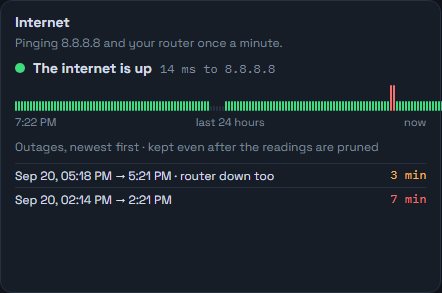
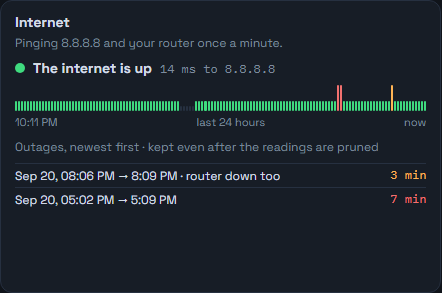
Keep the internet strip inside its card, and Activity to four across (#205)
The 24-hour strip drew a fixed 160 bars. Flex won't shrink them past the
2px each one is given plus the 1px gap beside it, so the strip always
needed 479px of card - and the card is usually nearer 340. The excess
didn't clip, it painted: the rest of the day ran out of the panel and
across whatever card sat to the right of it.

How many bars there are now comes from the card's own width, so it is
always exactly as wide as the space it has: 240 on an ultrawide, 109 on
a phone. The strip also clips now, so nothing can leave the panel again
whatever the arithmetic does. Resizing the window re-buckets it.

Activity stops at four cards across. auto-fit with a 340px floor kept
adding columns on a wide screen - seven at 2560, each one narrower than
what was inside it, which is what made the strip's overflow so obvious.
Giving every track a floor of a quarter of the row caps it at four,
while the 340px floor still steps down to three, two and one as the
window narrows.

docs/internet.png was showing the bug: the strip ran to the very edge
of the card because the overflow was cropped by the screenshot.

diff --git a/BAMF/wwwroot/index.html b/BAMF/wwwroot/index.html
@@ -1317,7 +1317,8 @@
   td.traf { font-family: "IBM Plex Mono", monospace; font-size: 11.5px; white-space: nowrap; color: var(--text-dim); }
   td.traf b { font-weight: 500; color: var(--text); }
   td.traf.quiet { color: var(--led-off); }
-  .act-cards { display: grid; grid-template-columns: repeat(auto-fit, minmax(340px, 1fr)); gap: 14px; margin: 0 0 18px; }
+  .act-cards { display: grid; gap: 14px; margin: 0 0 18px;
+    grid-template-columns: repeat(auto-fit, minmax(max(340px, (100% - 42px) / 4), 1fr)); }
   .act-card { background: var(--panel); border: 1px solid var(--line); border-radius: 12px; padding: 12px 14px; min-width: 0; }
   .act-card h3 { margin: 0 0 4px; font-size: 14px; }
   .act-card .sub { font-size: 12px; color: var(--text-dim); margin-bottom: 8px; }
@@ -1522,7 +1523,7 @@
   .wan-dot.down { background: var(--danger); }
   .wan-now { font: 600 14px "Space Grotesk", system-ui, sans-serif; }
   .wan-ms { color: var(--text-dim); font-family: "IBM Plex Mono", monospace; font-size: 12px; }
-  .wan-strip { display: flex; gap: 1px; height: 26px; align-items: flex-end; margin: 8px 0 4px; }
+  .wan-strip { display: flex; gap: 1px; height: 26px; align-items: flex-end; margin: 8px 0 4px; overflow: hidden; }
   .wan-strip i { flex: 1 1 0; min-width: 2px; background: var(--led-on); border-radius: 1px; height: 40%; }
   .wan-strip i.down { background: var(--danger); height: 100%; }
   .wan-strip i.local { background: var(--led-warn); height: 100%; }
@@ -15151,7 +15152,14 @@ function renderWanCard() {
   if (samples.length) {
     // One bar per few minutes, showing the worst of what happened in them, so
     // a short outage is never averaged into looking fine.
-    const COLS = 160, span = 24 * 3600e3 / COLS, end = Date.now();
+    //
+    // How many bars is measured, not fixed. Each wants its 2px and the 1px gap
+    // beside it, and flex won't shrink them below that, so a fixed 160 needed
+    // 479px of card. The card is often half that, and the overflow painted the
+    // rest of the day straight across the panel next door.
+    const wide = $("wanBody").clientWidth || 340;
+    const COLS = Math.max(40, Math.min(240, Math.floor((wide + 1) / 3)));
+    const span = 24 * 3600e3 / COLS, end = Date.now();
     const buckets = Array.from({ length: COLS }, () => ({ n: 0, ms: 0, down: 0, local: 0 }));
     for (const s of samples) {
       const i = Math.floor((new Date(s.at) - (end - 24 * 3600e3)) / span);
@@ -15194,6 +15202,16 @@ function renderWanCard() {
   const more = $("wanMore");
   if (more) more.onclick = () => { wanAllOutages = !wanAllOutages; renderWanCard(); };
 }
+
+// The bar count comes from the card's own width, so a resized window wants a
+// re-bucket. Only while Activity is the tab being looked at.
+let wanResize = null;
+window.addEventListener("resize", () => {
+  if (view !== "activity" || !wanCache) return;
+  clearTimeout(wanResize);
+  wanResize = setTimeout(renderWanCard, 200);
+});
+
 function renderWanToggle() {
   const t = $("setWan");
   if (!t) return;
